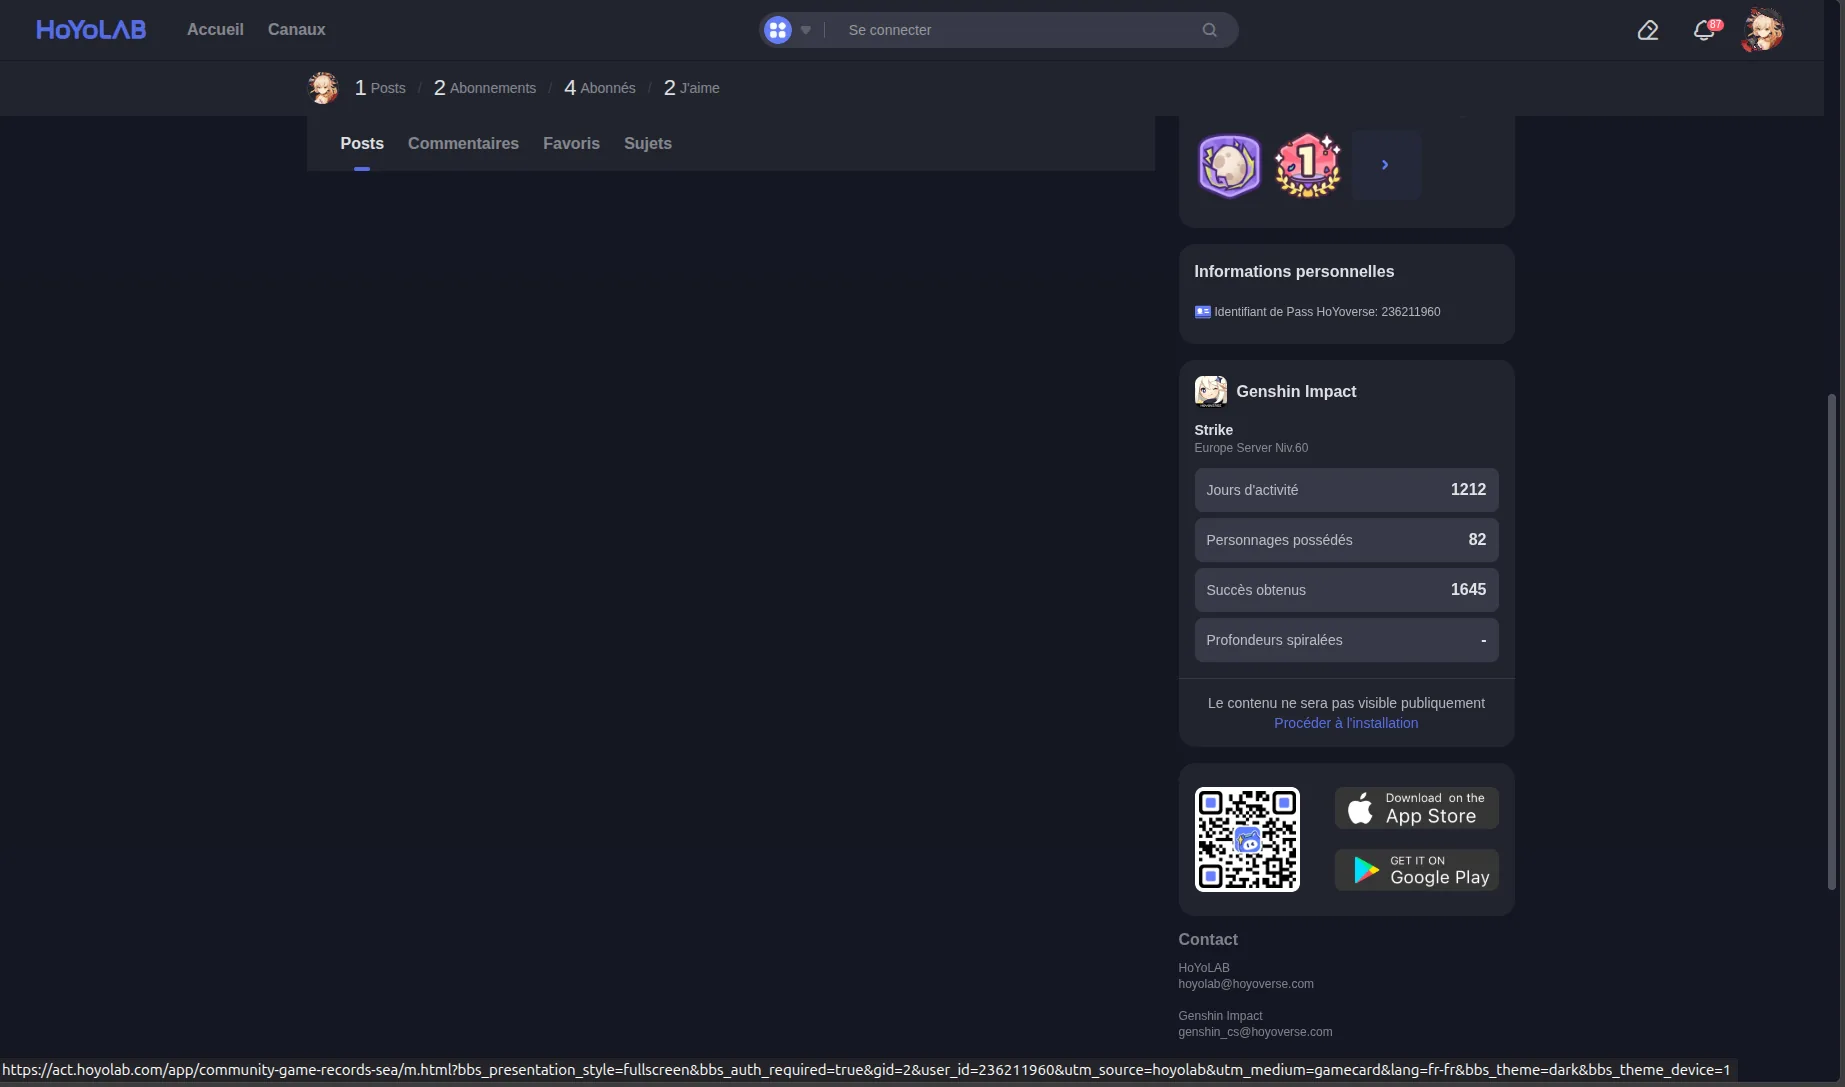
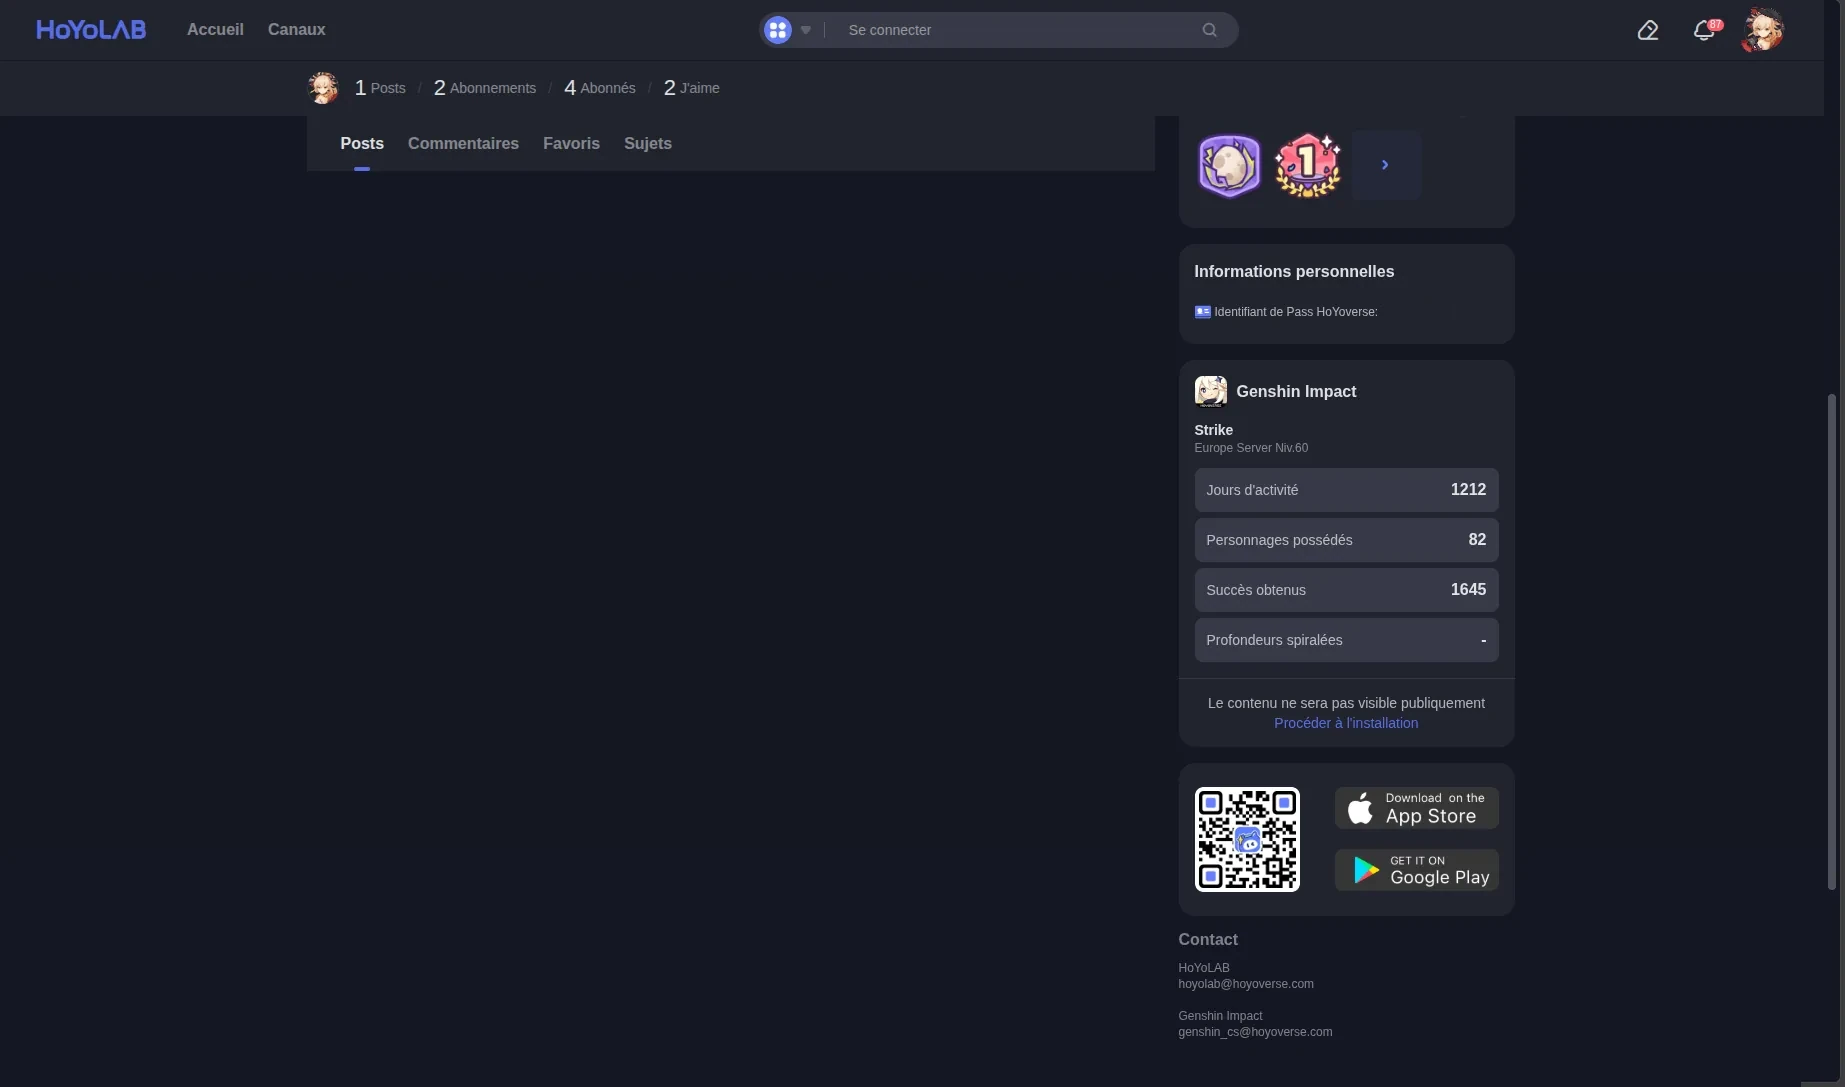
Tuto HoYoLAB : identifiant de Pass masqué sur les captures ; tutoriel : paragraphes de la bulle justifiés

Changed region(s): [[0.0, 0.9715, 0.9577, 1.0], [0.7415, 0.2732, 0.7724, 0.3036]]

diff --git a/site/my_account/my_account.html b/site/my_account/my_account.html
@@ -327,7 +327,7 @@
   </div>
 
   <script src="/commun/variantes.js?v=6"></script>
-  <script src="/commun/tuto_hoyolab.js?v=4"></script>
+  <script src="/commun/tuto_hoyolab.js?v=5"></script>
   <script src="/my_account/auto_box/detection.js?v=2"></script>
   <script src="/my_account/auto_box/interface.js?v=6"></script>
   <script src="/commun/synergies.js?v=4"></script>
@@ -337,6 +337,6 @@
   <script src="/commun/recommandations_stuff.js?v=2"></script>
   <script src="/my_account/my_account.js?v=87"></script>
   <script src="/commun/listes.js?v=1"></script>
-  <script src="/commun/site.js?v=34"></script>
+  <script src="/commun/site.js?v=35"></script>
 </body>
 </html>

diff --git a/site/commun/tutoriel.js b/site/commun/tutoriel.js
@@ -88,7 +88,7 @@
     .tutoriel-bulle a { color: #f5c542; }
     .tutoriel-progression { margin: 0 0 0.25rem; font-size: 0.8125rem; opacity: 0.7; }
     .tutoriel-bulle h2 { margin: 0 0 0.5rem; font-size: 1.25rem; }
-    .tutoriel-bulle p { margin: 0 0 0.625rem; line-height: 1.4; }
+    .tutoriel-bulle p { margin: 0 0 0.625rem; line-height: 1.4; text-align: justify; }
     .tutoriel-bulle.reduite h2, .tutoriel-bulle.reduite p:not(.tutoriel-progression) { display: none; }
     .tutoriel-etat { font-weight: bold; }
     .tutoriel-etat.fait { color: #5fd38d; }

diff --git a/site/commun/site.js b/site/commun/site.js
@@ -24,7 +24,7 @@
     const astuce = localStorage.getItem("tutoriel-astuce-tri") && new URLSearchParams(location.search).has("room");
     if (/(^|; )tutoriel_actif=1/.test(document.cookie) || localStorage.getItem("tutoriel-test") !== null || astuce) {
       const script = document.createElement("script");
-      script.src = "/commun/tutoriel.js?v=10";
+      script.src = "/commun/tutoriel.js?v=11";
       script.defer = true;
       document.head.appendChild(script);
     }

diff --git a/site/matchmaking/match.html b/site/matchmaking/match.html
@@ -303,7 +303,7 @@
 
   <!-- En-tête du site (affichage "classique"), pas figé ; bouton du compte. -->
   <script src="/commun/listes.js?v=1"></script>
-  <script src="/commun/site.js?v=34" data-room></script>
+  <script src="/commun/site.js?v=35" data-room></script>
   <script src="/commun/compte.js?v=68" defer></script>
   <script src="/commun/variantes.js?v=6"></script>
   <script src="/commun/synergies.js?v=4"></script>

diff --git a/site/matchmaking/equipe.html b/site/matchmaking/equipe.html
@@ -153,7 +153,7 @@
 
 <!-- En-tête du site (affichage "classique"), pas figé ; bouton du compte. -->
 <script src="/commun/listes.js?v=1"></script>
-<script src="/commun/site.js?v=34" data-room></script>
+<script src="/commun/site.js?v=35" data-room></script>
 <script src="/commun/compte.js?v=68" defer></script>
 <script src="/commun/variantes.js?v=6"></script>
 <script src="/commun/synergies.js?v=4"></script>

diff --git a/site/matchmaking/world_boss.html b/site/matchmaking/world_boss.html
@@ -107,7 +107,7 @@
 
 <!-- En-tête du site (affichage "classique"), pas figé ; bouton du compte. -->
 <script src="/commun/listes.js?v=1"></script>
-<script src="/commun/site.js?v=34" data-room></script>
+<script src="/commun/site.js?v=35" data-room></script>
 <script src="/commun/compte.js?v=68" defer></script>
 <script src="/commun/variantes.js?v=6"></script>
 <script src="/commun/synergies.js?v=4"></script>

diff --git a/site/tutorial.html b/site/tutorial.html
@@ -149,8 +149,8 @@
     </details>
     </main>
   </div>
-  <script src="/commun/tuto_hoyolab.js?v=4"></script>
+  <script src="/commun/tuto_hoyolab.js?v=5"></script>
   <script src="/commun/listes.js?v=1"></script>
-  <script src="/commun/site.js?v=34"></script>
+  <script src="/commun/site.js?v=35"></script>
 </body>
 </html>

diff --git a/site/cosmetiques.html b/site/cosmetiques.html
@@ -40,6 +40,6 @@
   <script src="/commun/personnalisation.js?v=45"></script>
   <script src="/cosmetiques/cosmetiques.js?v=2"></script>
   <script src="/commun/listes.js?v=1"></script>
-  <script src="/commun/site.js?v=34"></script>
+  <script src="/commun/site.js?v=35"></script>
 </body>
 </html>

diff --git a/site/admin_ppc/admin_ppc.html b/site/admin_ppc/admin_ppc.html
@@ -731,6 +731,6 @@
   <script src="/admin_ppc/admin_comptes.js?v=1"></script>
   <script src="/admin_ppc/admin_ppc.js?v=41"></script>
   <script src="/commun/listes.js?v=1"></script>
-  <script src="/commun/site.js?v=34"></script>
+  <script src="/commun/site.js?v=35"></script>
 </body>
 </html>

diff --git a/site/matchmaking/matchmaking.html b/site/matchmaking/matchmaking.html
@@ -239,6 +239,6 @@
   <script src="/commun/cartes.js?v=36"></script>
   <script src="/matchmaking/matchmaking.js?v=48"></script>
   <script src="/commun/listes.js?v=1"></script>
-  <script src="/commun/site.js?v=34"></script>
+  <script src="/commun/site.js?v=35"></script>
 </body>
 </html>

diff --git a/site/all_accounts/all_accounts.html b/site/all_accounts/all_accounts.html
@@ -144,6 +144,6 @@
   <script src="/commun/tri.js?v=21"></script>
   <script src="/all_accounts/all_accounts.js?v=44"></script>
   <script src="/commun/listes.js?v=1"></script>
-  <script src="/commun/site.js?v=34"></script>
+  <script src="/commun/site.js?v=35"></script>
 </body>
 </html>

diff --git a/site/evenements.html b/site/evenements.html
@@ -122,6 +122,6 @@
   <script src="/commun/cartes.js?v=36"></script>
   <script src="/evenements/evenements.js?v=16"></script>
   <script src="/commun/listes.js?v=1"></script>
-  <script src="/commun/site.js?v=34"></script>
+  <script src="/commun/site.js?v=35"></script>
 </body>
 </html>
